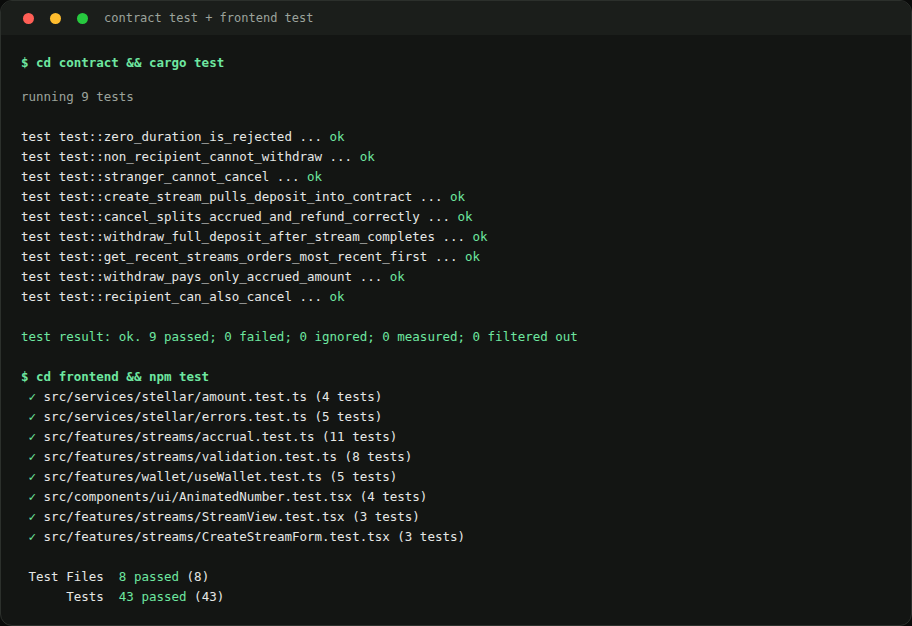
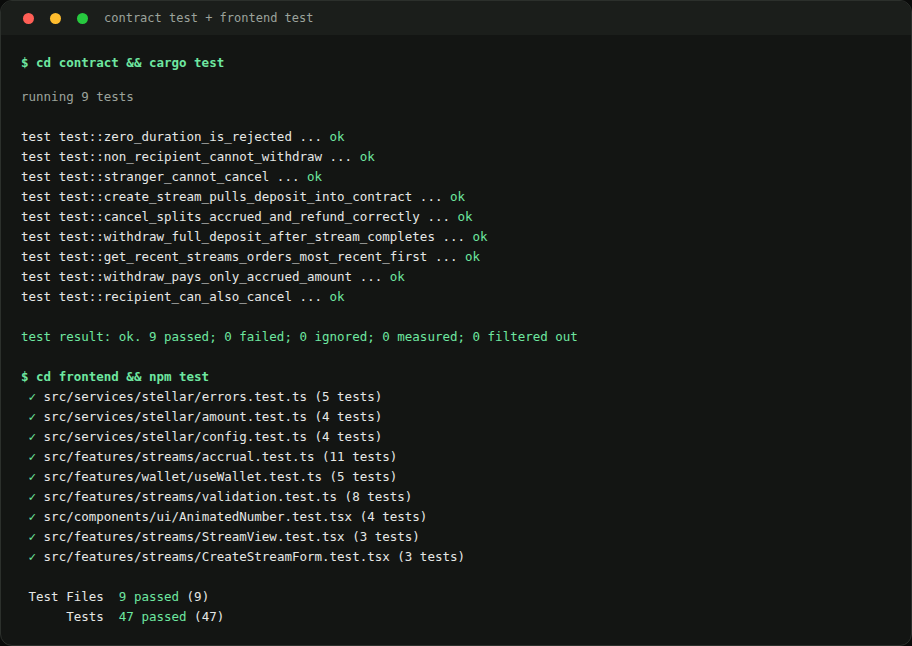
Document required env vars and the startup error screen in README
Full VITE_* variable list with correct testnet values (all six are only
ever read in services/stellar/config.ts), a note on Vercel Project
Settings needing them set before the build runs, and a real screenshot of
the missing-config error screen. Test-output screenshot and counts
updated to 47 frontend tests (added config.test.ts, 4 tests).

diff --git a/README.md b/README.md
@@ -298,6 +298,37 @@ npm test                 # vitest run
 npm run build             # tsc -b && vite build
 ```
 
+#### Required environment variables
+
+`frontend/.env.example` lists every variable the app reads (there are no
+others — `services/stellar/config.ts` is the single place they're
+consumed). All six are required; the app will refuse to render past a
+clear on-screen error if any are missing (see below) rather than silently
+failing.
+
+| Variable | Testnet value |
+|---|---|
+| `VITE_CONTRACT_ID` | `CDPD3ZKG2CASLYS4GAZII6DLQG5R62QEE2JKJO7IWLKOWNDZA6J3WPVL` |
+| `VITE_TOKEN_ID` | `CDLZFC3SYJYDZT7K67VZ75HPJVIEUVNIXF47ZG2FB2RMQQVU2HHGCYSC` |
+| `VITE_NETWORK_PASSPHRASE` | `Test SDF Network ; September 2015` (paste exactly, including the spaces and semicolon) |
+| `VITE_RPC_URL` | `https://soroban-testnet.stellar.org` |
+| `VITE_HORIZON_URL` | `https://horizon-testnet.stellar.org` |
+| `VITE_EXPLORER_BASE_URL` | `https://stellar.expert/explorer/testnet` |
+
+For a Vercel deployment, add all six under Project Settings → Environment
+Variables (Vite only exposes vars prefixed `VITE_` to the client, and only
+those set *before* the build runs — adding them after a failed deploy
+requires triggering a new deployment, not just saving the settings).
+
+**Missing-config error screen.** If any of these aren't set, the app
+does not silently render a blank page — `main.tsx` checks for missing
+vars before mounting the router/app tree at all, and renders a plain,
+self-contained error screen (no CSS/font dependency, so it renders even
+if the rest of the build is unhealthy) naming exactly which variables are
+missing:
+
+<img src="docs/screenshots/startup-error.png" alt="StreamPay startup error screen listing missing environment variables" width="640" />
+
 ### Deploy the contract (one command)
 
 ```bash
@@ -359,9 +390,9 @@ Live at [Actions](https://github.com/Hermit210/streampay/actions), also via the 
 
 <img src="docs/screenshots/ci-green.png" alt="StreamPay CI run, both jobs green" width="720" />
 
-### Test output (9 contract tests + 43 frontend tests, all real captured output)
+### Test output (9 contract tests + 47 frontend tests, all real captured output)
 
-<img src="docs/screenshots/test-output.png" alt="9 contract tests and 43 frontend tests passing" width="640" />
+<img src="docs/screenshots/test-output.png" alt="9 contract tests and 47 frontend tests passing" width="640" />
 
 ## Requirements checklist
 
@@ -375,9 +406,9 @@ assumed from earlier work.
 | CI/CD pipeline | ✅ | `.github/workflows/ci.yml`: contract test+build, frontend lint/typecheck/test/build, on every push to `main` — [green run](https://github.com/Hermit210/streampay/actions) |
 | Documented, scripted deployment workflow | ✅ | `scripts/deploy-contract.sh testnet deployer` — one command, documented in [Setup](#setup) |
 | Mobile responsive frontend | ✅ | All three routes (`/`, `/how-it-works`, `/app`) verified at 390px with real headless-browser captures, zero horizontal overflow — see [Screenshots](#screenshots) |
-| Error handling & loading states | ✅ | Every RPC/contract call (wallet connect, create, withdraw, cancel, stream load, event poll) has a loading state and a mapped, human-readable error message, plus a root `ErrorBoundary` for uncaught render errors |
+| Error handling & loading states | ✅ | Every RPC/contract call (wallet connect, create, withdraw, cancel, stream load, event poll) has a loading state and a mapped, human-readable error message; a root `ErrorBoundary` for uncaught render errors; and a pre-mount startup check that shows a clear on-screen error naming exactly which env vars are missing, instead of a blank page, if the deployment is misconfigured |
 | Contract tests | ✅ | 9 unit tests (Rust/soroban-sdk testutils): create, partial/full withdraw, double-withdraw rejection, cancel by sender and by recipient, stranger-cannot-cancel, non-recipient-cannot-withdraw, zero-duration rejection, recent-streams ordering |
-| Frontend tests | ✅ | 43 tests (Vitest/RTL): accrual math (11, including before/mid/exactly-at-stop/after-stop/canceled), wallet connect errors (5), form validation (8), withdraw guard logic (3), animated number (4), error mapping (5), amount conversion (4), component-level create-stream flow (3) |
+| Frontend tests | ✅ | 47 tests (Vitest/RTL): accrual math (11, including before/mid/exactly-at-stop/after-stop/canceled), wallet connect errors (5), form validation (8), withdraw guard logic (3), animated number (4), error mapping (5), amount conversion (4), component-level create-stream flow (3), startup env-var check (4) |
 | Production-ready architecture | ✅ | `services/` (RPC, wallet, events) / `features/` (streams, wallet, home) / `components/ui/` (shared primitives) / `pages/` separation, thin composition roots — not one giant `App.tsx` |
 | Documentation | ✅ | This README: architecture, setup, testing, deployment record, honest checklist |
 | Demo video | 🟡 | Pending recording |
